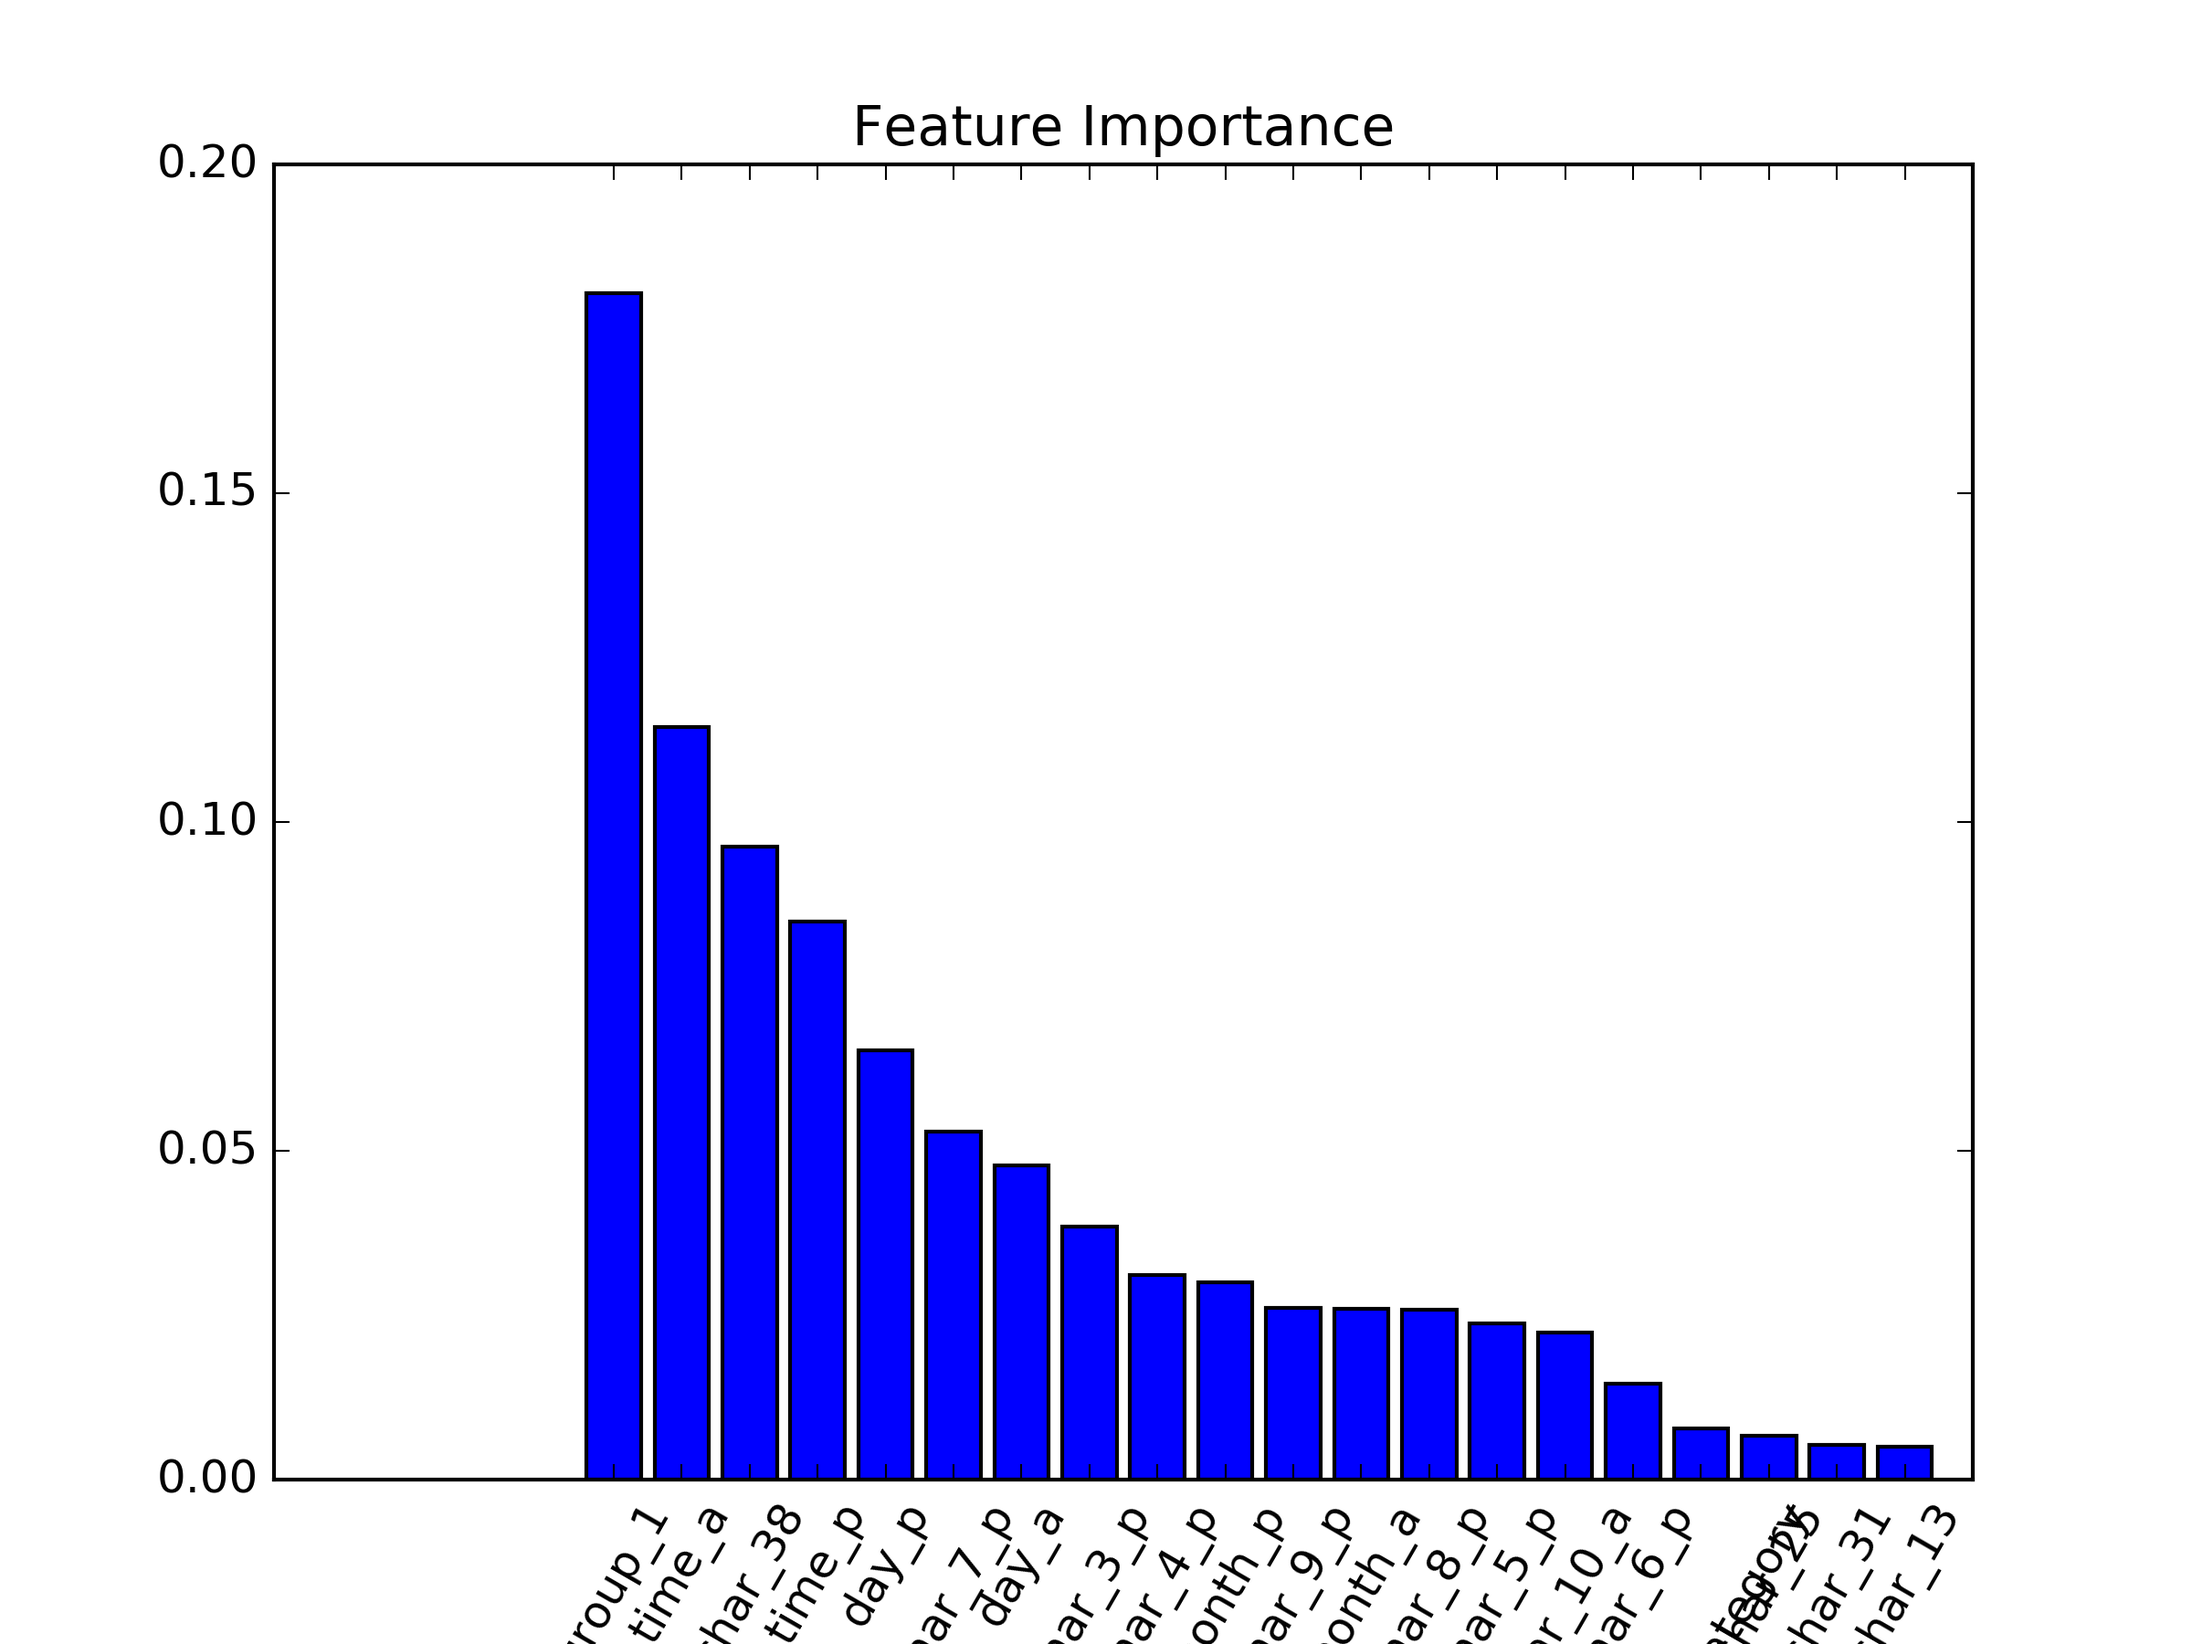
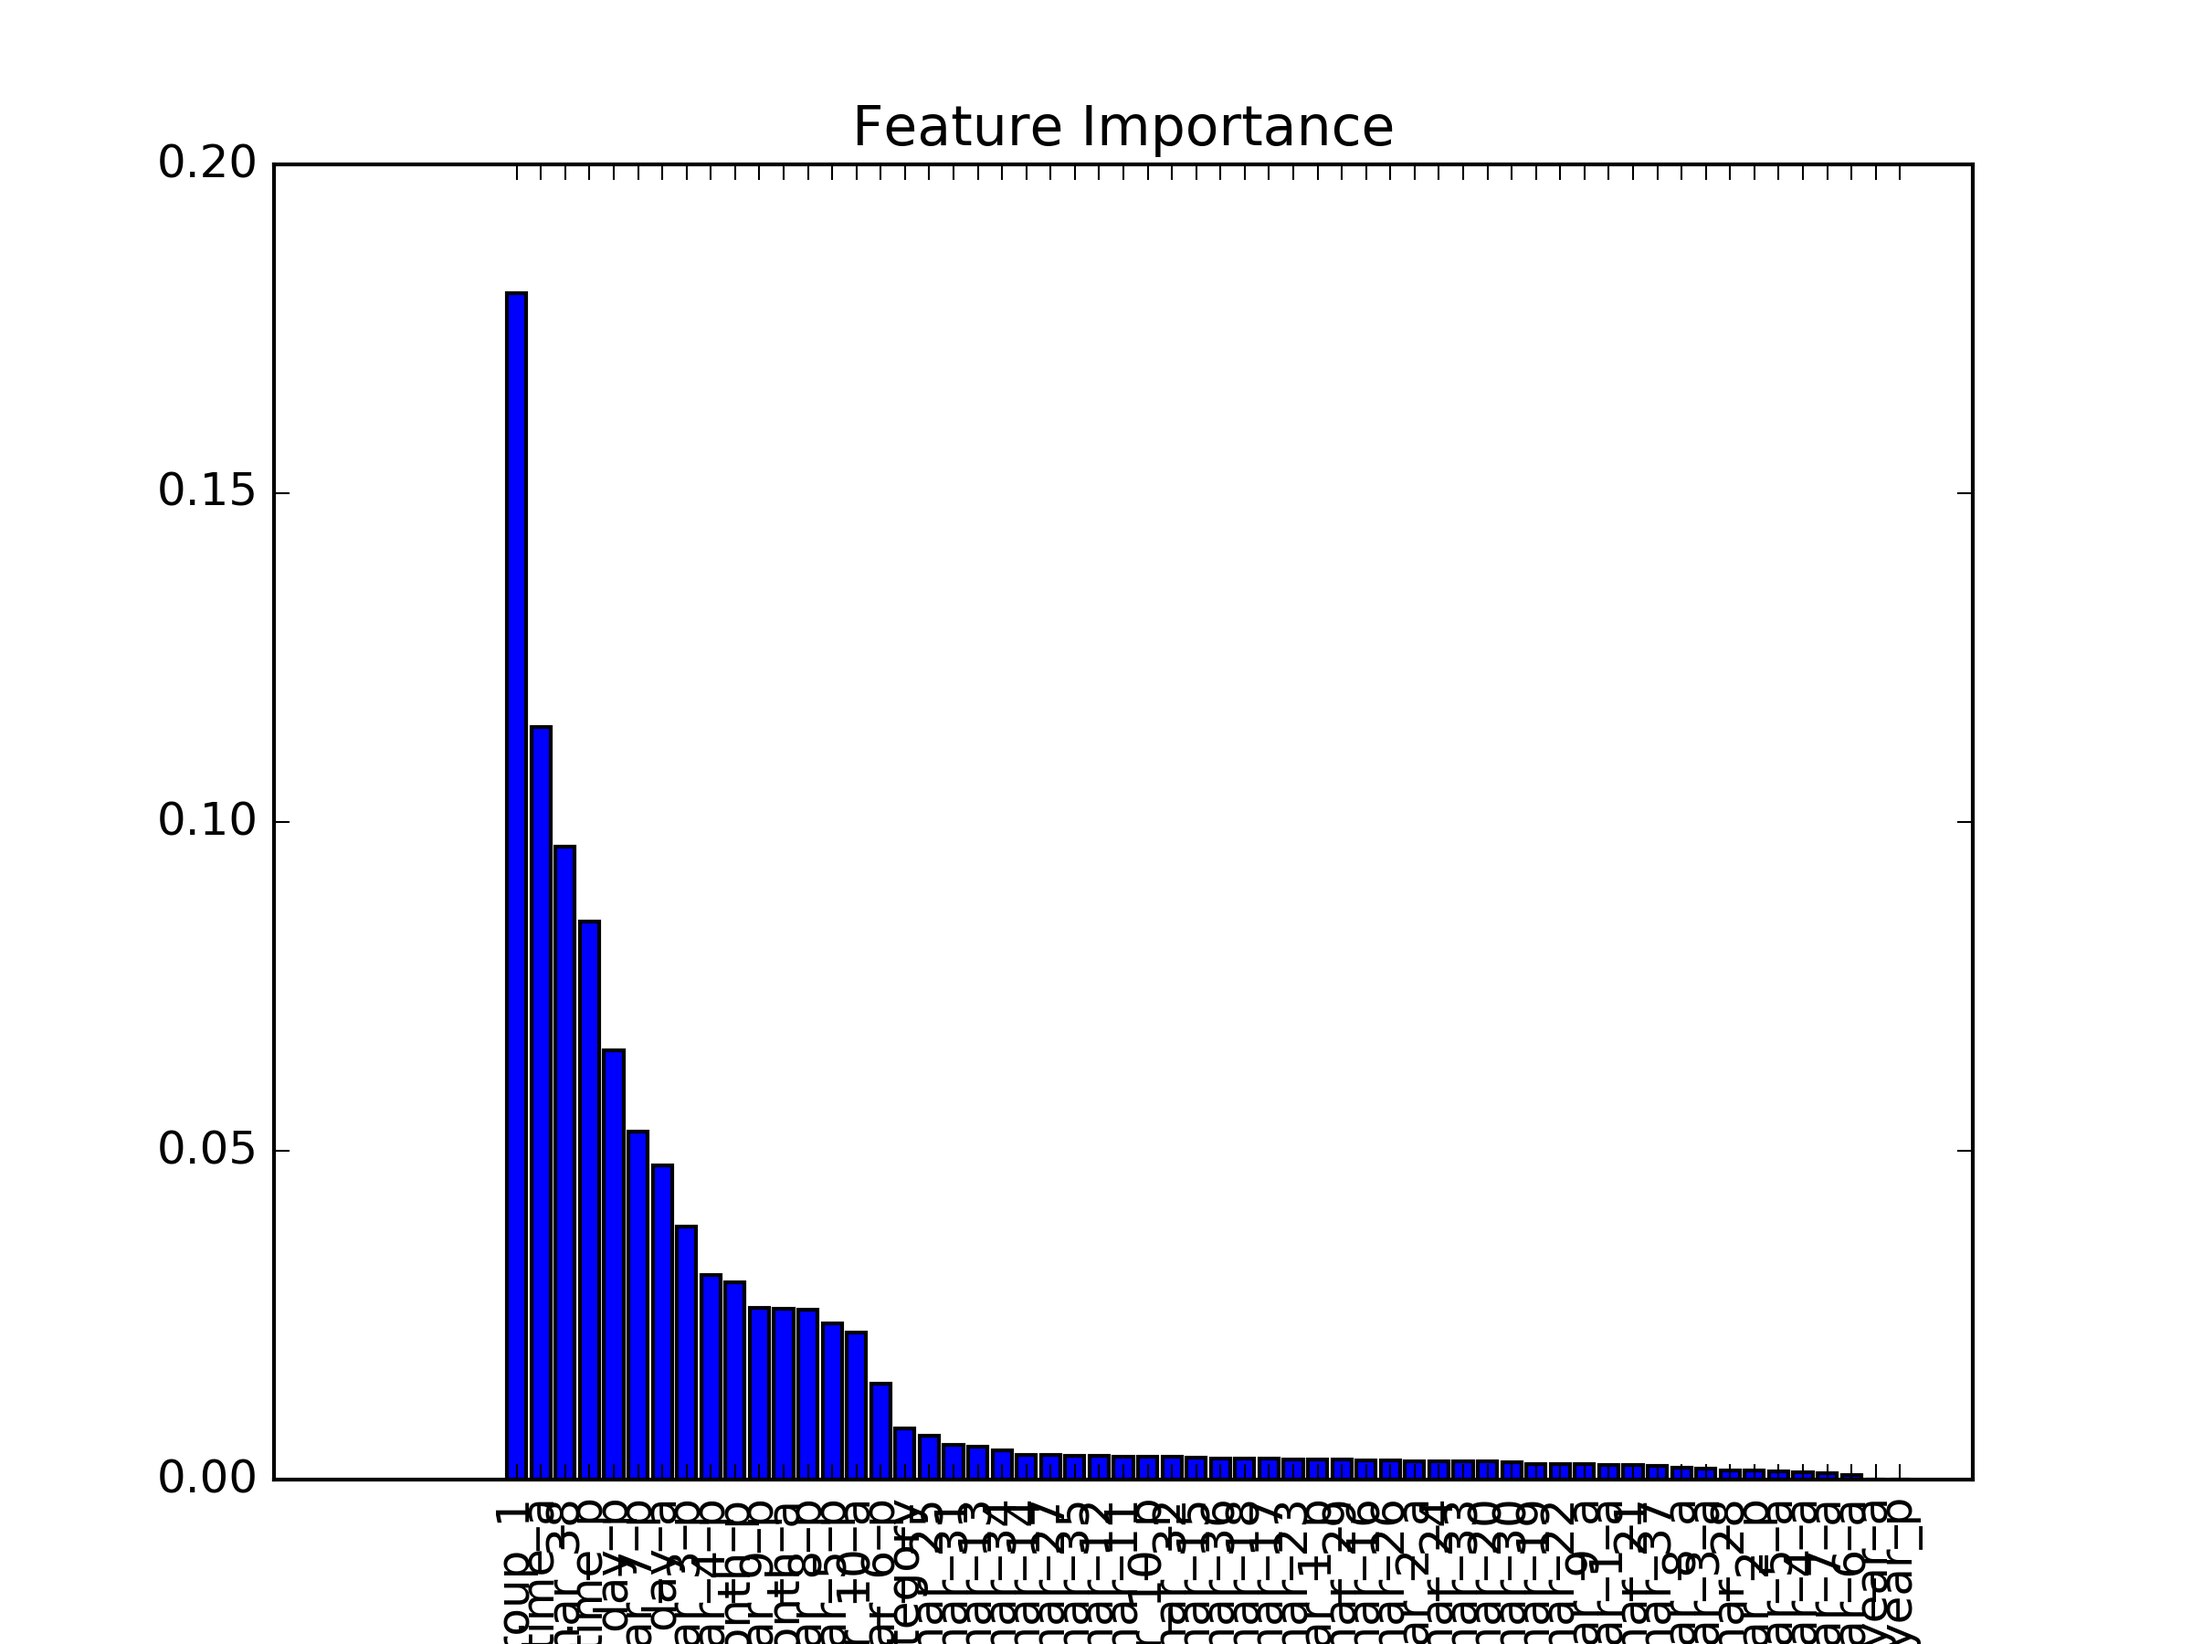
update

Changed region(s): [[0.2188, 0.1556, 0.9062, 1.0]]

diff --git a/Code/model_build.py b/Code/model_build.py
@@ -7,6 +7,7 @@ from sklearn.cross_validation import KFold, train_test_split
 from sklearn.metrics import roc_auc_score, make_scorer, roc_curve
 from tqdm import tqdm
 import xgboost as xgb
+import pickle
 
 
 def one_run_cv(X, y, model, k_fold=10):
@@ -25,7 +26,7 @@ def one_run_cv(X, y, model, k_fold=10):
             X_train, y_train = X[idx_train], y[idx_train]
             X_test, y_test = X[idx_test], y[idx_test]
             model.fit(X_train, y_train,
-                      eval_metric='auc', 
+                      eval_metric='auc',
                       # early_stopping_rounds=50,
                       verbose=True)
             y_prob = model.predict_proba(X_test)[:, 1]
@@ -53,6 +54,8 @@ def one_run_test(X_train, X_test, y_train, y_test):
                              scale_pos_weight=1)
     score, one_model = one_run_cv(X_train, y_train, xgb1, 10)
     y_prob = one_model.predict_proba(X_test)[:, 1]
+    with open('model.pkl', 'w+') as pf:
+        pickle.dump(one_model, pf)
     auc = roc_auc_score(y_test, y_prob)
     with open('../log/result.log', 'a+') as f:
         f.write('\n---------------------\n')
@@ -71,7 +74,7 @@ def plot_feature_importance(fea_imp, features, num_fea=None):
     plt.figure()
     plt.title('Feature Importance')
     plt.bar(range(k), fea_imp[idx][:k], align="center")
-    plt.xticks(range(k), features[idx][:k], rotation=30)
+    plt.xticks(range(k), features[idx][:k], rotation=90)
     plt.savefig('../Img/fea_imp.png', dpi=300)
 
 
@@ -108,5 +111,5 @@ if __name__ == '__main__':
                                axis=1).columns
     X_train, X_test, y_train, y_test = train_test_split(X, y, test_size=0.3)
     model = one_run_test(X_train, X_test, y_train, y_test)
-    fea_imp = model.plot_feature_importances_
+    fea_imp = model.feature_importances_
     plot_feature_importance(fea_imp, features, num_fea=10)
